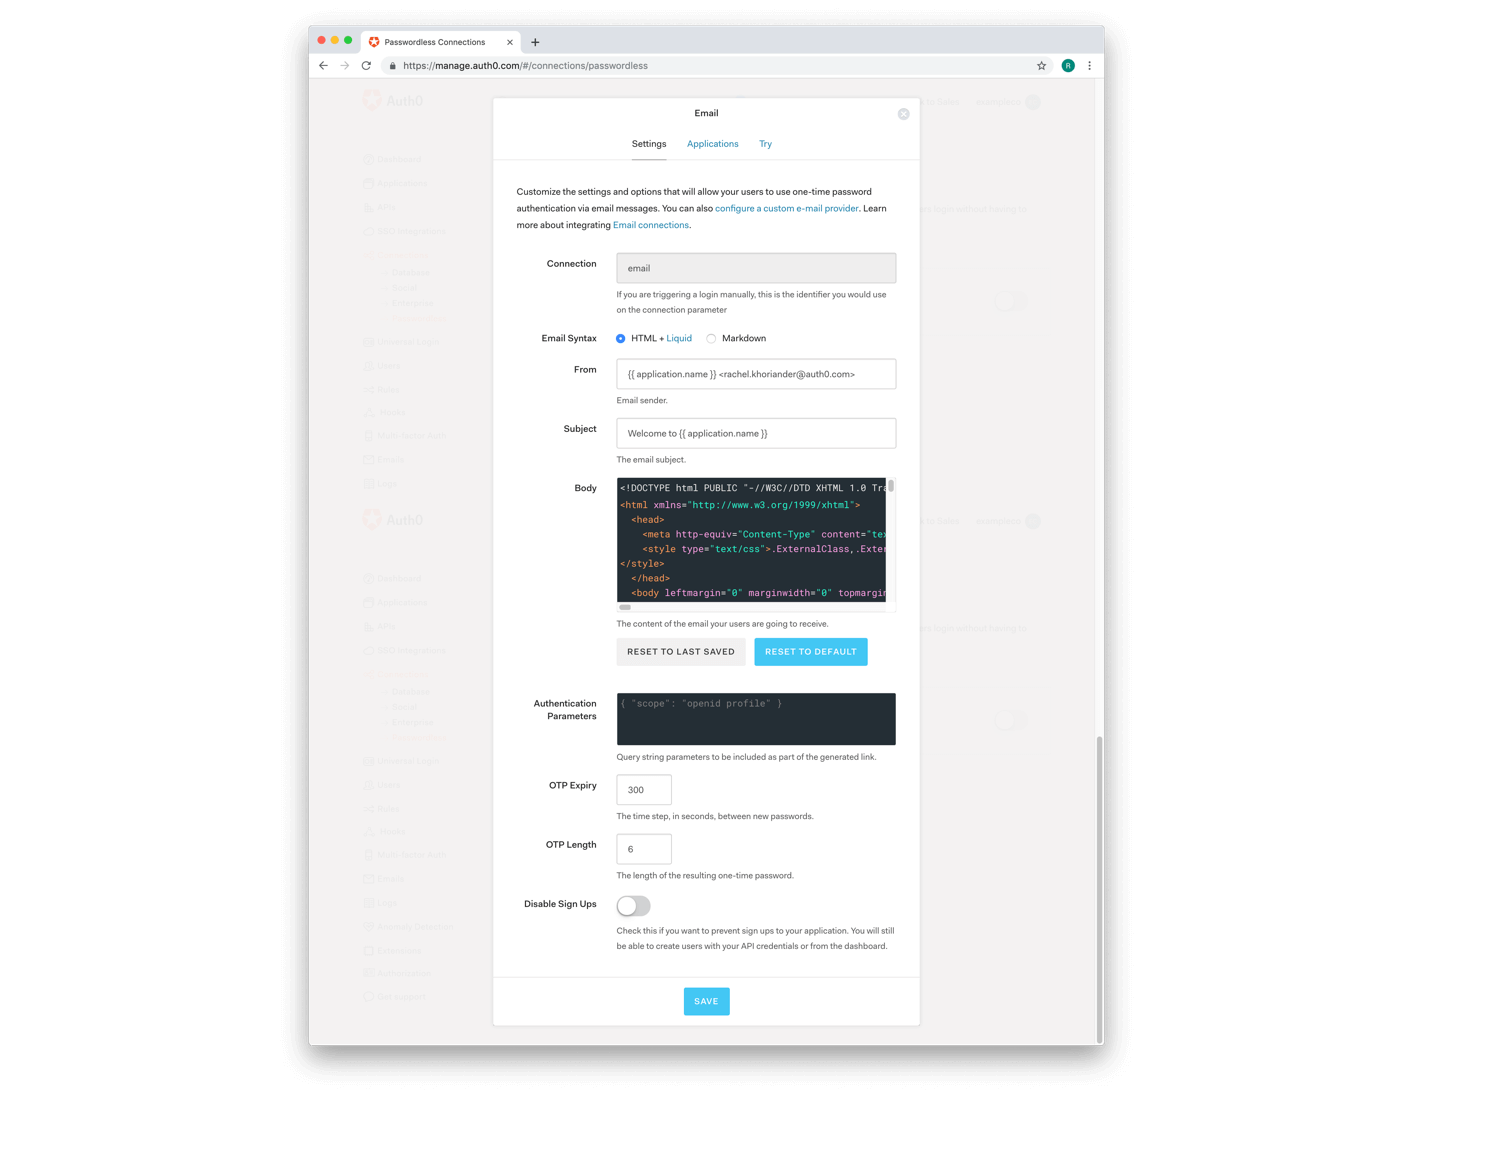
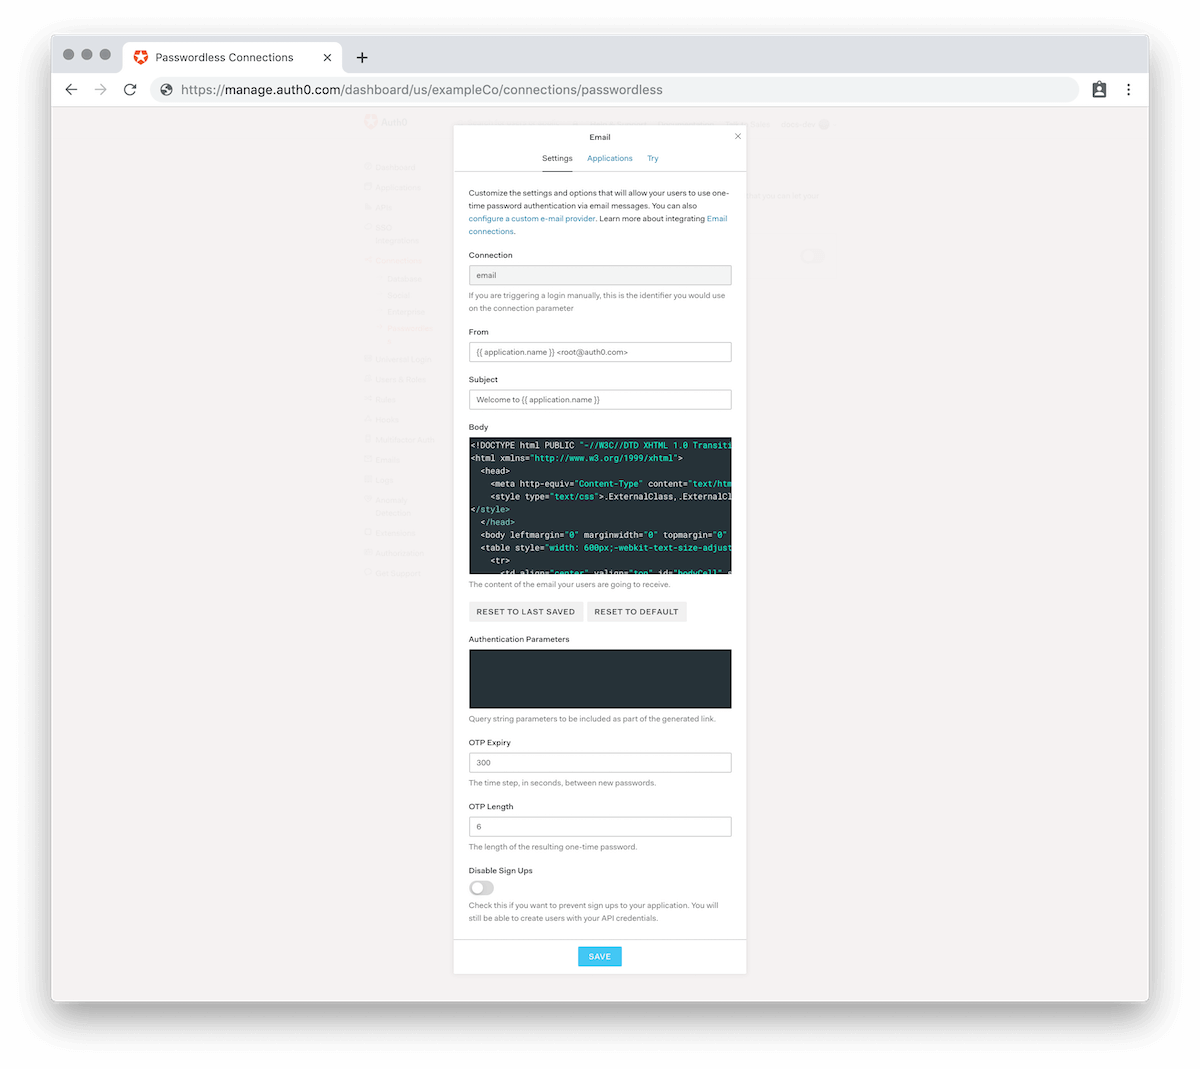
New doc: Configure Passwordless Connections

Changed region(s): [[0.0308, 0.0, 0.9867, 0.9878]]

diff --git a/articles/connections/passwordless/configure-passwordless-connection.md b/articles/connections/passwordless/configure-passwordless-connection.md
@@ -1,0 +1,127 @@
+# Configure Passwordless Connections
+
+This guide will show you how to configure Passwordless connections using Auth0's Dashboard. This task can also be performed using the Management API.
+
+## Configure Passwordless using SMS messages
+
+::: panel Twilio Account
+Before proceeding, you will need a valid Twilio account. Auth0 will use your [Twilio Account SID](https://www.twilio.com/help/faq/twilio-basics/what-is-an-application-sid) and [ Auth Token](https://www.twilio.com/help/faq/twilio-basics/what-is-the-auth-token-and-how-can-i-change-it) to send SMS messages tousers.
+:::
+
+1. Navigate to the [Connections > Passwordless](${manage_url}/#/connections/passwordless) page in the [Auth0 Dashboard](${manage_url}/), and enable the SMS toggle.
+
+![Enable SMS Passwordless](/media/articles/connections/passwordless/connections-passwordless-list.png)
+
+2. Enter your **Twilio Account SID** and **Twilio Auth Token**.
+
+::: note
+To learn how to find your Twilio SID and Auth Token, see the Twilio docs on the[Application SID](https://support.twilio.com/hc/en-us/articles/223136607-What-is-an-Application-SID-) and the [AuthToken](https://support.twilio.com/hc/en-us/articles/223136027-Auth-Tokens-and-How-to-Change-Them).
+:::
+
+![Configure SMS Passwordless](/media/articles/connections/passwordless/connections-passwordless-sms.png)
+
+3. Select your **SMS Source** and depending on your selection, enter either your **Twilio Messaging Service SID** or a **From** phone number. Users will see what you enter as the sender of the SMS.
+
+::: note
+To learn about using Twilio Copilot, see [Sending Messages with Copilot](https://www.twilio.com/docs/api/rest/sending-messages-copilot).
+:::
+
+4. In **Message**, enter the body text of the SMS.
+
+**Make sure that your Message includes `@@password@@`, since this is the placeholder that will be replaced with the one-time password that is sent to the user.**
+
+You can use multiple languages in your SMS Messages. You can choose the language used by calling the [`passwordless/start`](/docs/api/authentication/reference#get-code-or-link) endpoint and setting the `x-request-language` header to the language of your choice. Otherwise, the language used will be extracted from the `accept-language` header (which is automatically set by your browser).
+
+The **Message** area accepts Markdown and Liquid syntax. If you choose to use Liquid, you can programmatically construct elements of the message. For example, you can reference the `request_language` parameter to change the language of the message:
+
+```text
+{% if request_language contains 'dutch' %}
+   Hier is uw verificatie code: @@password@@
+{% endif %}
+
+{% if request_language contains 'fr-FR' %}
+   Ceci est votre code: @@password@@
+{% endif %}
+```
+
+The following parameters are available to you when defining the message template (regardless of which syntax your use):
+
+| Parameter | Description |
+| - | - |
+| `password` or `code` | The one-time password to send to the user |
+| `phone_number	` | The user's phone number |
+| `application.name` | The name of the application to which the user is logging in |
+| `request_language` | The requested language to be used for the SMS message's content |
+
+1. Adjust settings for your **OTP Expiry** and **OTP Length**.
+
+| Parameter | Description |
+| - | - |
+| OTP Expiry | The amount of time before the one-time password expires |
+| OTP Length | The length of the one-time password sent to the user |
+
+If you choose to extend the OPT expiry time, we recommend increasing the OTP length for security reasons. Otherwise, the malicious party has a longer time frame to try to guess a short code.
+
+6. Disable Sign Ups
+
+If you want to restrict sign-ups and only allow the addition of new users via the API or the Dashboard, click the **Disable Sign Ups** toggle to enable this feature.
+
+When you are done making configuration changes, click **Save**.
+
+## Configure Passwordless using email
+
+1. Navigate to the [Connections > Passwordless](${manage_url}/#/connections/passwordless) page in the [Auth0 Dashboard](${manage_url}/), and enable the Email toggle.
+
+![Enable Email Passwordless](/media/articles/connections/passwordless/connections-passwordless-list.png)
+
+2. Enter your email address you want users to see as the sender in the **From** field, and set the **Subject** line for your email/
+
+![Configure Email Passwordless](/media/articles/connections/passwordless/connections-passwordless-email.png)
+
+::: note
+If you are using a custom template, you must change the **From** value to a non **@auth0com** address. Otherwise, the default email template will be sent.
+:::
+
+3. Edit the **Body** of your email. If you have an email template you want to use, you can provide the HTML for it here. Alternatively, you can use Auth0's default template.
+
+The template editor accepts Liquid syntax embedded within the HTML. This allows you to programmatically construct parts of your message. For example, you can reference the `request_language` parameter to change the language of the message:
+
+```text
+{% if request_language contains 'dutch' %}
+   Hier is uw verificatie code: @@password@@
+{% endif %}
+
+{% if request_language contains 'fr-FR' %}
+   Ceci est votre code: @@password@@
+{% endif %}
+```
+
+The following parameters are available to you when defining the email template:
+
+| Parameter | Description |
+| - | - |
+| `password` or `code` | The one-time password to send to the user |
+| `phone_number	` | The user's phone number |
+| `application.name` | The name of the application to which the user is logging in |
+| `request_language` | The requested language to be used for the SMS message's content |
+
+You can also use multiple languages in your emails. To set the language used, call the [`passwordless/start`](/docs/api/authentication/reference#get-code-or-link) endpoint and set the `x-request-language` header to the language of your choice. Otherwise, the language used will be extracted from the `accept-language` header (which is automatically set by your browser).
+
+If, at any time, you want to revert your changes, you can do so. You can either **reset to last saved** template, or you can **reset to default**.
+
+1. Enter any **Authentication Parameters** you would like to include in the generated sign-in link. These will be included as query string parameters.
+
+2. Adjust settings for your **OTP Expiry** and **OTP Length**.
+
+| Parameter | Description |
+| - | - |
+| OTP Expiry | The amount of time before the one-time password expires |
+| OTP Length | The length of the one-time password sent to the user |
+
+If you choose to extend the OPT expiry time, we recommend increasing the OTP length for security reasons. Otherwise, the malicious party has a longer time frame to try to guess a short code.
+
+6. Disable Sign Ups
+
+If you want to restrict sign-ups and only allow the addition of new users via the API or the Dashboard, click the **Disable Sign Ups** toggle to enable this feature.
+
+When you are done making configuration changes, click **Save**.
